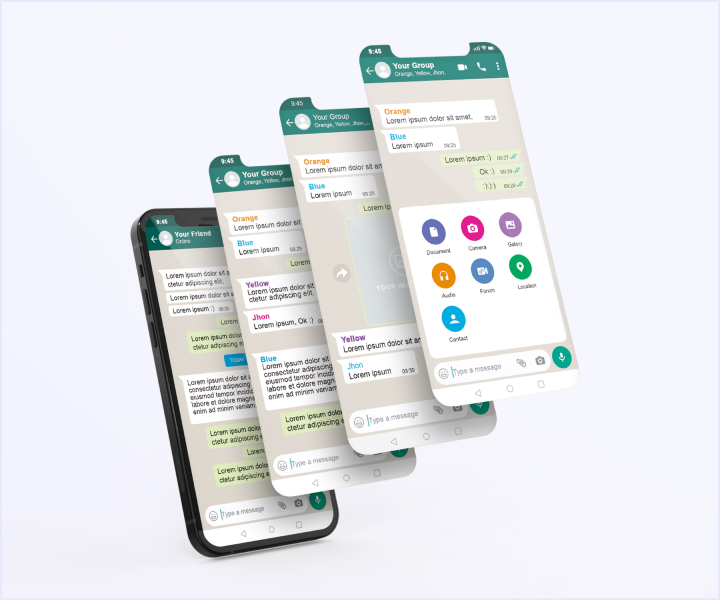
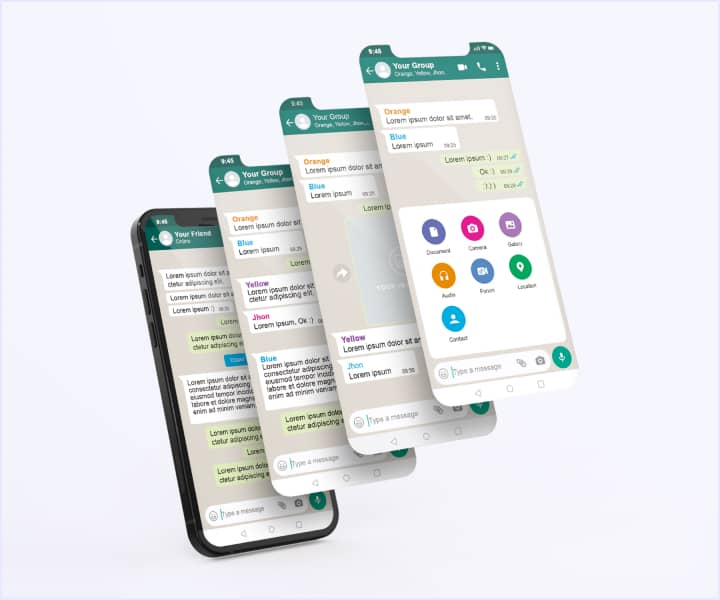
Images were optimized

diff --git a/index.html b/index.html
@@ -7,7 +7,7 @@
   </head>
   <body>
     <header>
-      <a href="/index.html"> <span>WEB</span>STUDIO</a>
+      <a href="/index.html"><span>Web</span>Studio</a>
       <nav>
         <ul>
           <li>
@@ -82,6 +82,7 @@
               src="images/what-are-we-doing/item-1.jpg"
               alt="Site shown on desktop monitor"
               width="360"
+              height="300"
             />
           </li>
           <li>
@@ -89,6 +90,7 @@
               src="images/what-are-we-doing/item-2.jpg"
               alt="Messeging application prototypes"
               width="360"
+              height="300"
             />
           </li>
           <li>
@@ -96,6 +98,7 @@
               src="images/what-are-we-doing/item-3.jpg"
               alt="Mobile application"
               width="360"
+              height="300"
             />
           </li>
         </ul>
@@ -118,6 +121,7 @@
               src="images/our-team/tom-ford.jpg"
               alt="Tom Ford"
               width="264"
+              height="260"
             />
             <h3>Tom Ford</h3>
             <p>Frontend Developer</p>
@@ -127,6 +131,7 @@
               src="images/our-team/camila-garcia.jpg"
               alt="Camila Garcia"
               width="264"
+              height="260"
             />
             <h3>Camila Garcia</h3>
             <p>Marketing</p>
@@ -136,6 +141,7 @@
               src="images/our-team/daniel-wilson.jpg"
               alt="Daniel Wilson"
               width="264"
+              height="260"
             />
             <h3>Daniel Wilson</h3>
             <p>UI Designer</p>
